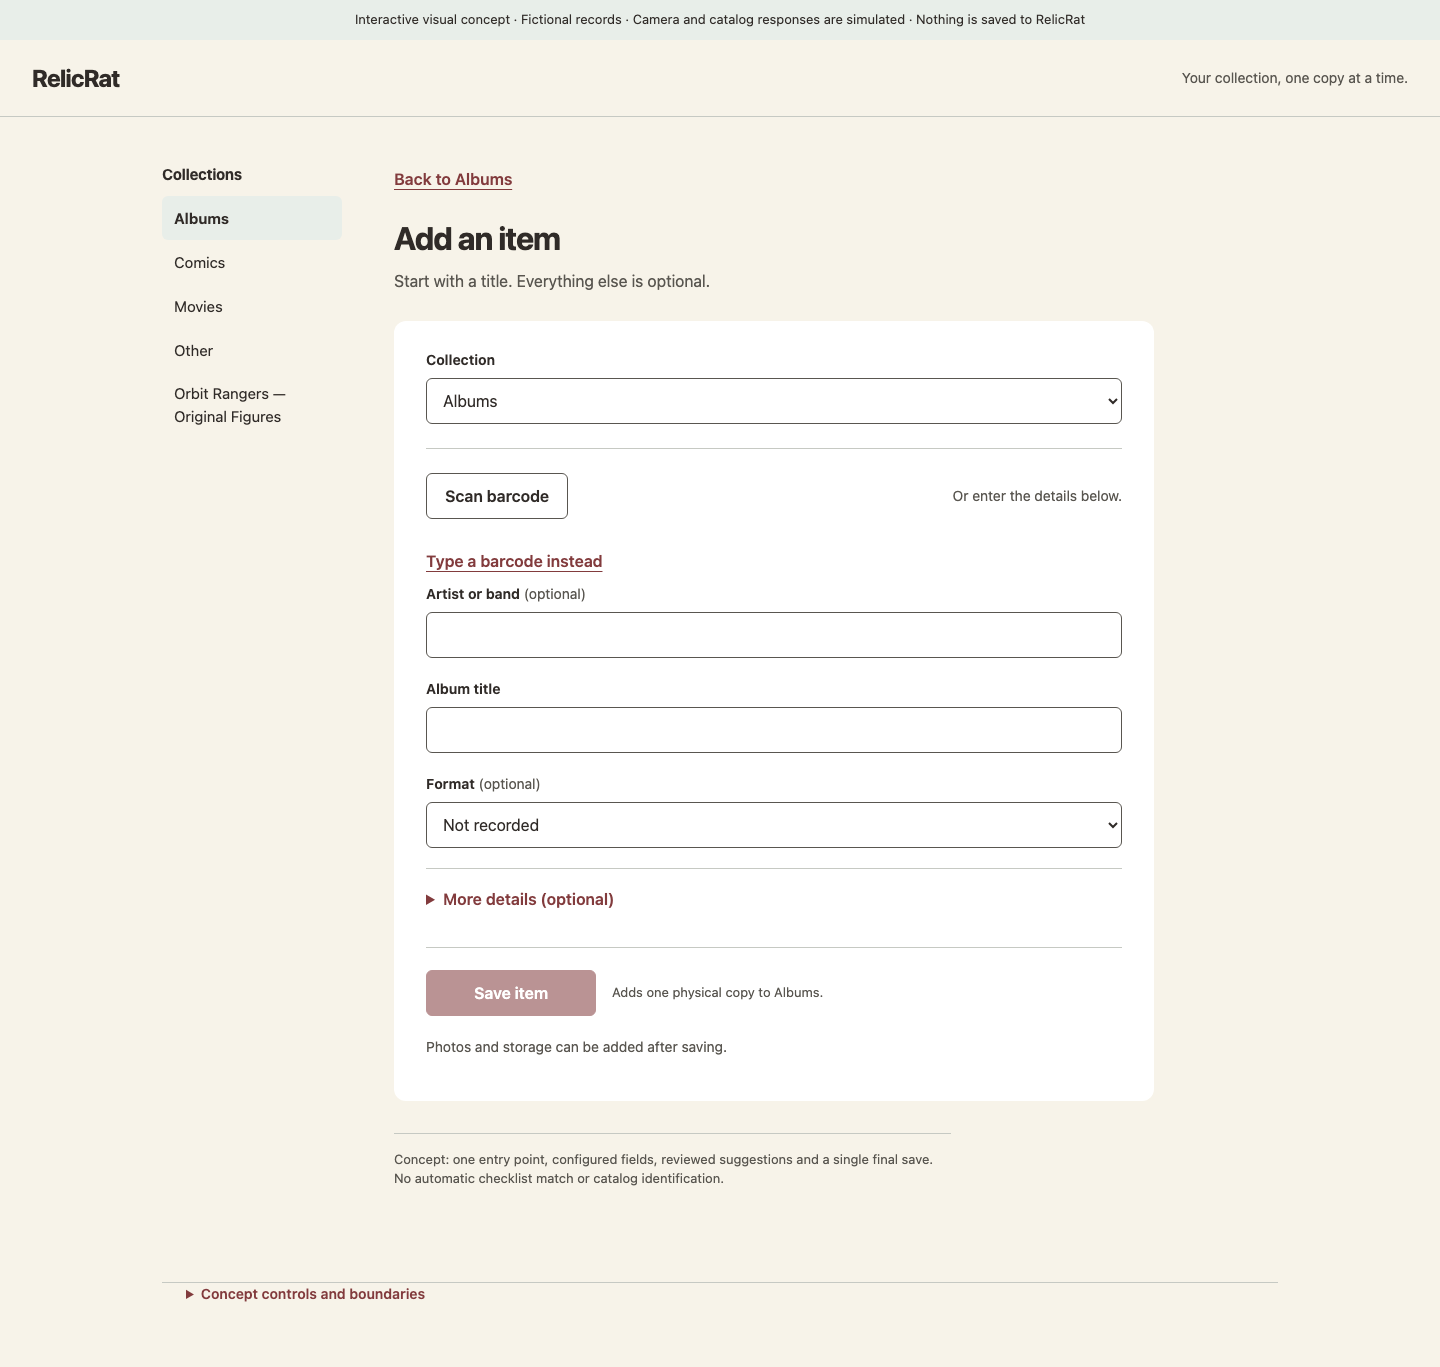
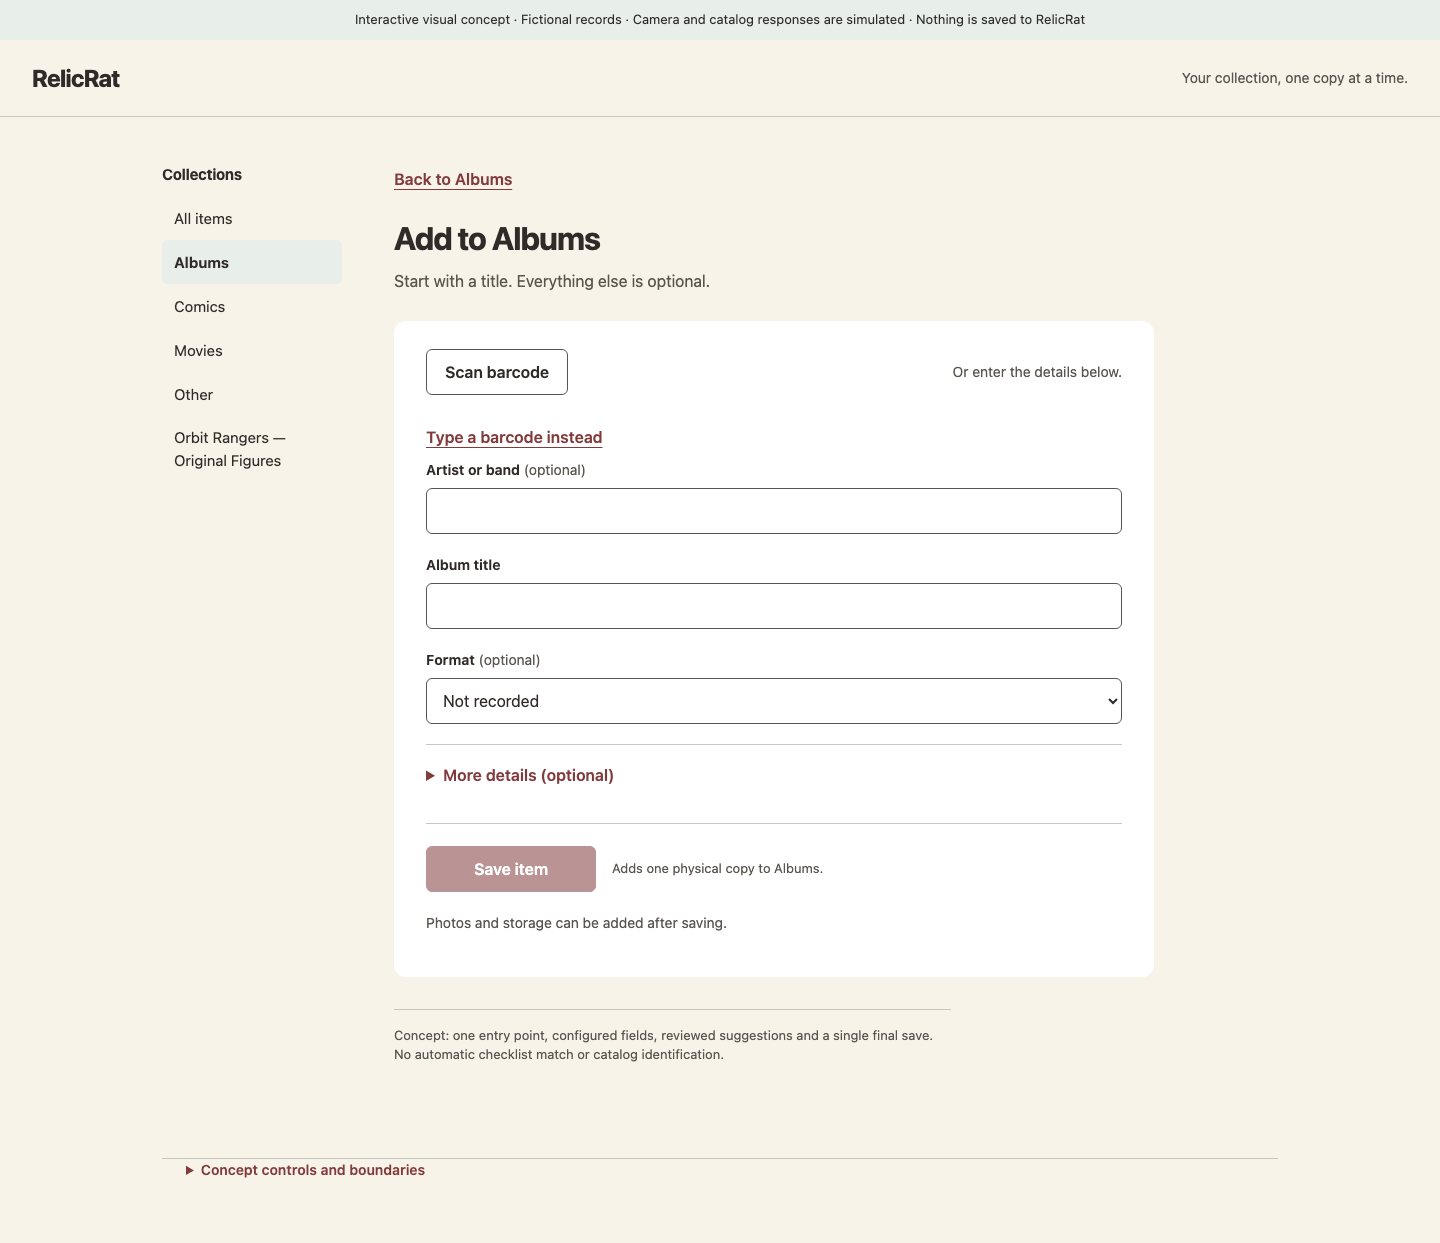
Inherit intake destination from selected collection

diff --git a/docs/design/proposals/item-intake-2026-11-04/index.html b/docs/design/proposals/item-intake-2026-11-04/index.html
@@ -325,7 +325,7 @@ const configs={
   }
 }
 ;
-const names=Object.fromEntries(Object.entries(configs).map(([k,v])=>[k,v.plural_label]));let destination='album',pendingDestination=null,drafts={},view='entry',saved=null,request=0;
+const names=Object.fromEntries(Object.entries(configs).map(([k,v])=>[k,v.plural_label]));let scope='album',destination='album',pendingDestination=null,pendingScope=null,drafts={},view='entry',saved=null,request=0;
 function fresh(){return {values:{},barcode:'',result:'',candidate:false,includeCover:false,checks:{},notice:'',error:'',uncertain:false}}
 function draft(){return drafts[destination]??=(fresh())}const main=document.querySelector('#main');
 const samples={album:{title:'North Window',artist:'Tideline',format:'Vinyl'},movie:{title:'The Last Observatory'},comic:{title:'Star Patrol',issue_number:'7'},figures:{title:'Captain Nova'},other:{title:'Blue enamel pin'}};
@@ -333,8 +333,8 @@ function el(tag,props={},...children){const n=document.createElement(tag);for(co
 function btn(text,fn,cls='',disabled=false){return el('button',{type:'button',class:cls,onclick:fn,disabled:disabled||!!draft().saving},text)}
 function focusHeading(){main.querySelector('h1')?.focus()}
 function dirty(d){return Object.values(d.values).some(v=>Array.isArray(v)?v.length:!!v)||!!d.barcode}
-function navigate(next){if(next===destination)return;if(draft().uncertain){draft().error='Check the collection to confirm the previous save before starting another item.';render();return}if(dirty(draft())){pendingDestination=next;render();return}destination=next;view='entry';render();focusHeading()}
-function nav(){const n=document.querySelector('#nav');n.replaceChildren(...Object.keys(configs).map(k=>{const b=btn(names[k],()=>navigate(k));if(k===destination)b.setAttribute('aria-current','page');return b}))}
+function navigate(next,from='sidebar'){const nextDestination=next==='all'?destination:next,nextScope=from==='picker'?'all':next;if(nextDestination===destination){scope=nextScope;view='entry';render();return}if(draft().uncertain){draft().error='Check the collection to confirm the previous save before starting another item.';render();return}if(dirty(draft())){pendingDestination=nextDestination;pendingScope=nextScope;render();return}destination=nextDestination;scope=nextScope;request++;view='entry';render();focusHeading()}
+function nav(){const n=document.querySelector('#nav');n.replaceChildren(...['all',...Object.keys(configs)].map(k=>{const b=btn(k==='all'?'All items':names[k],()=>navigate(k));if(k===scope)b.setAttribute('aria-current','page');return b}))}
 function field(c,key,d){const f=key==='title'?{...c.title,key}:c.fields.find(v=>v.key===key);if(!f)return null;let value=d.values[key]??'',node;const optional=key==='title'?'':' (optional)';let label=el('label',{for:'field-'+key},f.label,el('span',{class:'optional'},optional));
 const update=v=>{d.values[key]=v;if(d.candidate){d.checks[key]=false;d.before??={};d.before[key]=v;const toggle=document.querySelector('#suggest-check-'+key);if(toggle)toggle.checked=false}d.error='';document.querySelector('#save-item').disabled=!String(d.values.title||'').trim()||d.uncertain};
 if(['radio','checkboxes'].includes(f.input)){node=el('fieldset',{},el('legend',{},f.label,el('span',{class:'optional'},' (optional)')));const opts=f.input==='radio'?['Not recorded',...f.options]:f.options;for(const option of opts){const selected=f.input==='radio'?(option==='Not recorded'?!value:value===option):(Array.isArray(value)&&value.includes(option));node.append(el('label',{class:'choice'},el('input',{type:f.input==='radio'?'radio':'checkbox',name:key,checked:selected,onchange:e=>update(f.input==='radio'?(option==='Not recorded'?'':option):(e.target.checked?[...(Array.isArray(d.values[key])?d.values[key]:[]),option]:(d.values[key]||[]).filter(v=>v!==option)))}),option))}return node}
@@ -349,13 +349,13 @@ function choose(){const d=draft();d.before={...d.values};d.candidate=true;d.resu
 function results(d,c){if(!d.result)return null;let body=el('section',{class:'lookup','aria-label':'Barcode result'});if(d.result==='loading')body.append(el('p',{role:'status'},'Looking for a possible match…'));if(d.result==='match'){body.append(el('h2',{},'Possible match'),el('p',{class:'hint'},'From '+(destination==='album'?'MusicBrainz':'UPCitemdb')+'. A shared barcode can cover several editions.'),btn('',choose));body.lastChild.replaceChildren(el('div',{},el('b',{},samples[destination].title),el('span',{},destination==='album'?'Tideline · Vinyl · Fictional release':'Movie title · Fictional release')),el('span',{},'Review details'));body.lastChild.className='candidate'}else if(d.result==='empty')body.append(el('h2',{},'No catalog match'),el('p',{class:'hint'},'The barcode is kept. Enter a title and save; you can add details later.'));else if(d.result==='unavailable')body.append(el('h2',{},'Catalog lookup is unavailable'),el('p',{class:'hint'},'Your draft is still here. Try again or enter details yourself.'),btn('Try lookup again',scan));else if(d.result==='unsupported')body.append(el('p',{class:'hint'},'Barcode kept. No catalog lookup is configured for '+names[destination]+'. Enter the details below.'));return body}
 function cover(d){if(!d.candidate||!configs[destination].lookup?.cover_art)return null;const art=el('div',{});art.innerHTML='<svg class="sleeve" xmlns="http://www.w3.org/2000/svg" viewBox="0 0 112 112" role="img" aria-label="Fictional album catalog cover"><rect width="112" height="112" fill="#254D3D"/><text x="10" y="28" fill="#F7F3E9" font-family="sans-serif" font-size="11">TIDELINE</text><rect x="10" y="44" width="92" height="1" fill="#F7F3E9"/><text x="10" y="66" fill="#F7F3E9" font-family="sans-serif" font-size="10">NORTH WINDOW</text><text x="10" y="96" fill="#F7F3E9" font-family="sans-serif" font-size="8">FICTIONAL COVER</text></svg>';return el('section',{class:'cover-review'},art,el('div',{},el('label',{class:'choice'},el('input',{type:'checkbox',checked:d.includeCover,onchange:e=>d.includeCover=e.target.checked}),'Include catalog cover'),el('p',{},'Optional artwork from MusicBrainz / Cover Art Archive. It is not a photo of your physical copy.')))}
 function save(e){e.preventDefault();const d=draft();if(!String(d.values.title||'').trim()||d.uncertain||d.saving)return;d.saving=true;render();setTimeout(()=>{d.saving=false;const outcome=document.querySelector('#save-outcome').value;if(outcome==='error'){d.error='This item could not be saved. Your details are still here. Try again when ready.';render();return}if(outcome==='uncertain'){d.uncertain=true;d.error='The connection ended before saving was confirmed. Check the collection before trying again.';render();return}saved={destination,values:{...d.values},cover:d.includeCover};drafts[destination]=fresh();view='success';render();focusHeading()},500)}
-function render(){nav();main.replaceChildren();const c=configs[destination],d=draft();
-if(view==='success'){main.append(btn('Back to '+names[destination],()=>{view='browse';render();focusHeading()},'text'),el('section',{class:'success'},el('h1',{tabindex:'-1'},saved.values.title+' added.'),el('p',{class:'saved-location'},'Saved in '+names[destination]+'.'),el('div',{class:'actions'},btn('Add another item',()=>{view='entry';render();focusHeading()},'primary'),btn('View item',()=>{view='item';render();focusHeading()})),el('p',{class:'hint'},c.custom?'You can review its checklist match, photos and storage from the saved item.':'You can add photos or storage from the saved item.')));return}
-if(view==='item'){main.append(btn('Back to '+names[destination],()=>{view='browse';render()},'text'),el('h1',{tabindex:'-1'},saved.values.title),el('p',{},names[destination]),el('p',{class:'message'},'Saved-item destination shown for the concept. Photos, storage and checklist matching keep their existing separate save actions.'),btn('Add another item',()=>{view='entry';render()},'primary'));return}
-if(view==='browse'){main.append(el('h1',{tabindex:'-1'},names[destination]),btn(dirty(d)?'Continue adding your item':'Add an item',()=>{view='entry';render();focusHeading()},'primary'));if(dirty(d))main.append(el('p',{class:'message',role:'status'},'Your unfinished item is still here.'));const list=el('ul',{class:'browse-list'},el('li',{},'Fictional collection preview',el('small',{},'Browse filters and your position are preserved in the proposed app journey.')));if(saved?.destination===destination)list.prepend(el('li',{},saved.values.title,el('small',{},'Physical copy · '+names[destination])));main.append(list);return}
-main.append(btn('Back to '+names[destination],()=>{view='browse';render();focusHeading()},'text'),el('h1',{tabindex:'-1'},'Add an item'),el('p',{class:'lede'},'Start with a title. Everything else is optional.'));
-const paper=el('div',{class:'paper'}),selector=el('select',{id:'destination',disabled:d.uncertain||d.saving,onchange:e=>navigate(e.target.value)},...Object.entries(names).map(([k,v])=>el('option',{value:k},v)));selector.value=destination;paper.append(el('div',{class:'collection-field'},el('label',{for:'destination'},'Collection'),selector));
-if(pendingDestination){paper.append(el('div',{class:'message',role:'alert'},el('p',{},'This unfinished item belongs to '+names[destination]+'. Discard it to start in '+names[pendingDestination]+'?'),btn('Keep editing',()=>{pendingDestination=null;render()}),btn('Discard and switch',()=>{drafts[destination]=fresh();destination=pendingDestination;pendingDestination=null;request++;render()})));main.append(paper);return}
+function render(){nav();main.replaceChildren();const c=configs[destination],d=draft(),backName=scope==='all'?'All items':names[destination];
+if(view==='success'){main.append(btn('Back to '+backName,()=>{view='browse';render();focusHeading()},'text'),el('section',{class:'success'},el('h1',{tabindex:'-1'},saved.values.title+' added.'),el('p',{class:'saved-location'},'Saved in '+names[destination]+'.'),el('div',{class:'actions'},btn('Add another item',()=>{view='entry';render();focusHeading()},'primary'),btn('View item',()=>{view='item';render();focusHeading()})),el('p',{class:'hint'},c.custom?'You can review its checklist match, photos and storage from the saved item.':'You can add photos or storage from the saved item.')));return}
+if(view==='item'){main.append(btn('Back to '+backName,()=>{view='browse';render()},'text'),el('h1',{tabindex:'-1'},saved.values.title),el('p',{},names[destination]),el('p',{class:'message'},'Saved-item destination shown for the concept. Photos, storage and checklist matching keep their existing separate save actions.'),btn('Add another item',()=>{view='entry';render()},'primary'));return}
+if(view==='browse'){const browseSelector=el('select',{id:'browse-destination',onchange:e=>navigate(e.target.value)},...['all',...Object.keys(configs)].map(k=>el('option',{value:k},k==='all'?'All items':names[k])));browseSelector.value=scope;main.append(el('label',{for:'browse-destination'},'Browse collection'),browseSelector,el('h1',{tabindex:'-1'},backName),btn(dirty(d)?'Continue adding your item':'Add an item',()=>{view='entry';render();focusHeading()},'primary'));if(dirty(d))main.append(el('p',{class:'message',role:'status'},'Your unfinished item is still here.'));const list=el('ul',{class:'browse-list'},el('li',{},'Fictional collection preview',el('small',{},'Browse filters and your position are preserved in the proposed app journey.')));if(saved?.destination===destination)list.prepend(el('li',{},saved.values.title,el('small',{},'Physical copy · '+names[destination])));main.append(list);return}
+main.append(btn('Back to '+backName,()=>{view='browse';render();focusHeading()},'text'),el('h1',{tabindex:'-1'},scope==='all'?'Add an item':'Add to '+names[destination]),el('p',{class:'lede'},'Start with a title. Everything else is optional.'));
+const paper=el('div',{class:'paper'});if(scope==='all'){const selector=el('select',{id:'destination',disabled:d.uncertain||d.saving,onchange:e=>navigate(e.target.value,'picker')},...Object.entries(names).map(([k,v])=>el('option',{value:k},v)));selector.value=destination;paper.append(el('div',{class:'collection-field'},el('label',{for:'destination'},'Collection'),selector));}
+if(pendingDestination){paper.append(el('div',{class:'message',role:'alert'},el('p',{},'This unfinished item belongs to '+names[destination]+'. Discard it to start in '+names[pendingDestination]+'?'),btn('Keep editing',()=>{pendingDestination=null;pendingScope=null;render()}),btn('Discard and switch',()=>{drafts[destination]=fresh();destination=pendingDestination;scope=pendingScope;pendingDestination=null;pendingScope=null;request++;render()})));main.append(paper);return}
 if(c.barcode_formats?.length)paper.append(el('div',{class:'start-row'},btn('Scan barcode',scan,'',d.uncertain),el('p',{},'Or enter the details below.')),btn('Type a barcode instead',()=>{d.manualBarcode=!d.manualBarcode;render()},'text',d.uncertain));else paper.append(el('p',{class:'hint'},'Enter a '+c.title.label.toLowerCase()+'. Barcode scanning is not configured for this collection.'));
 if(d.manualBarcode){const code=el('input',{id:'manual-barcode',inputmode:'numeric',maxlength:'14'});code.value=d.barcode;paper.append(el('div',{class:'field'},el('label',{for:'manual-barcode'},'Barcode'),code,btn('Use barcode',()=>{d.barcode=code.value;d.manualBarcode=false;d.result=c.lookup?document.querySelector('#scan-outcome').value:'unsupported';render()})))}
 if(d.barcode)paper.append(el('div',{class:'barcode'},el('span',{},'Barcode '+d.barcode+' · Demo value'),btn('Remove',()=>{d.barcode='';d.result='';request++;render()},'text',d.uncertain)));

diff --git a/docs/design/proposals/item-intake-2026-11-04/README.md b/docs/design/proposals/item-intake-2026-11-04/README.md
@@ -13,7 +13,7 @@ The concept extends the approved visual world: supported ivory/white surfaces, c
 ## Proposed flow
 
 - Open Add an item from any collection, retaining the originating collection/filter/page/scroll context. Use a focused inline/full-width task area with Back; do not put intake, browse and the inspector in competition. The prototype's desktop navigation is context; phone uses the collection selector within the task.
-- Collection comes first. Built-in types and saved custom collections use one flat list. Preselect the browse destination; All items must resolve an explicit destination using the saved default. Never silently save a custom member to Other. Selection changes that would replace a dirty draft require Keep editing or Discard and switch; Back preserves the draft. Existing independent drafts must survive integration, rather than being silently merged or discarded.
+- The selected browse collection sets the destination. From Movies, the heading is **Add to Movies** and scanning/title entry comes first, with no repeated collection picker. The same rule applies to Albums, Comics, Other and named custom collections on desktop and phone. Only entry from **All items** shows a flat destination picker, initialized from the saved default; the destination remains explicit before saving. Never silently save a custom member to Other. Selection changes that would replace a dirty draft require Keep editing or Discard and switch; Back preserves the draft. Existing independent drafts must survive integration, rather than being silently merged or discarded.
 - Scan when the definition supports barcode formats, or enter the configured fields immediately. Title is the only required field. Album keeps artist before album title. Use configured ordering, limits, autocomplete and bounded choices with Other where already supported. Custom radio, select, multiselect and text follow the saved definition; unknown remains distinct from false/empty.
 - Successful scanning starts lookup automatically when configured, without a barcode-confirmation gate. With no provider, keep the barcode and allow manual entry. Permission denial exposes typed-barcode fallback. No match and provider failure keep the draft usable. Stop camera tracks on leaving/hiding the task; abort stale requests.
 - Choose a possible match to review it in the final form. Blank fields may be provisionally filled; existing manual values are kept unless the owner explicitly selects the corresponding suggestion. Per-field choices are editable/reversible. The optional catalog cover starts unchecked, retains provider/candidate provenance and remains distinct from photos of the owner's object. This proposes replacing the separate Use these details step with the same reviewed final form; it does not remove candidate choice or overwrite review.
@@ -53,3 +53,9 @@ Concept verification uses desktop and 390px phone rendering, all five destinatio
 - [Phone custom collection](04-phone-custom-PROPOSED.png)
 - [Phone confirmed save](05-phone-saved-PROPOSED.png)
 - [Machine-readable concept verification](verification.json)
+
+### Owner correction — selected collection is already known
+
+The owner found the repeated Collection dropdown redundant after choosing Movies in navigation. Updated the concept to inherit that scope, use “Add to Movies” (or the selected name), and omit the form picker. All items retains the picker because a physical copy needs a destination. Back returns to its originating scope; browsing and intake destination are separate state. This correction remains a concept change only.
+
+Correction verification: `node /private/tmp/check-intake-destination.cjs` passed six focused checks at desktop/390px. Albums/Movies and phone custom intake have no repeated picker; All items retains its destination selector and Back preserves its destination/draft. Album review/artwork and named custom saves still work. No browser errors or phone page overflow. Updated desktop/phone screenshots were inspected together; [Movies example](06-movies-scoped-PROPOSED.png) and [correction receipt](destination-verification.json). Earlier verification.json records the preceding concept revision.

diff --git a/docs/design/README.md b/docs/design/README.md
@@ -318,3 +318,8 @@ extends the current palette/components and uses fictional in-memory examples.
 It brings the destination first and reviews suggestions in the final form;
 current provider/cover capabilities and separate custom ownership/checklist rules
 remain explicit. Status: proposed for owner review; no app or deployment change.
+
+Owner refinement (2026-11-04): selecting a collection already establishes the
+intake destination. The concept now says “Add to Movies” (or the selected name)
+and removes the repeated picker. Only Add from All items asks for a destination.
+Applies equally to named custom collections and phone entry. Proposed; app unchanged.
